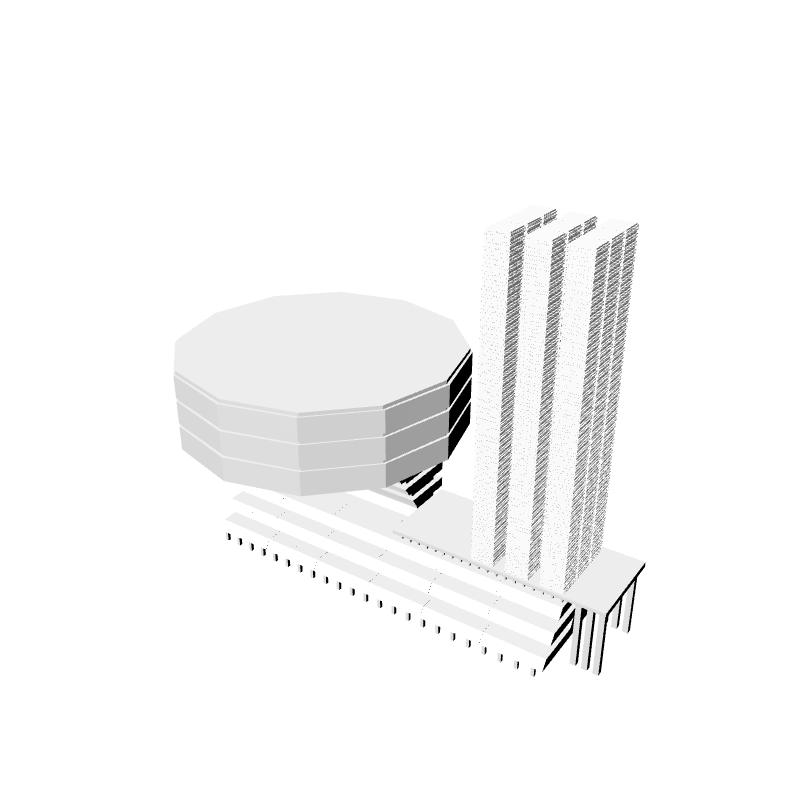
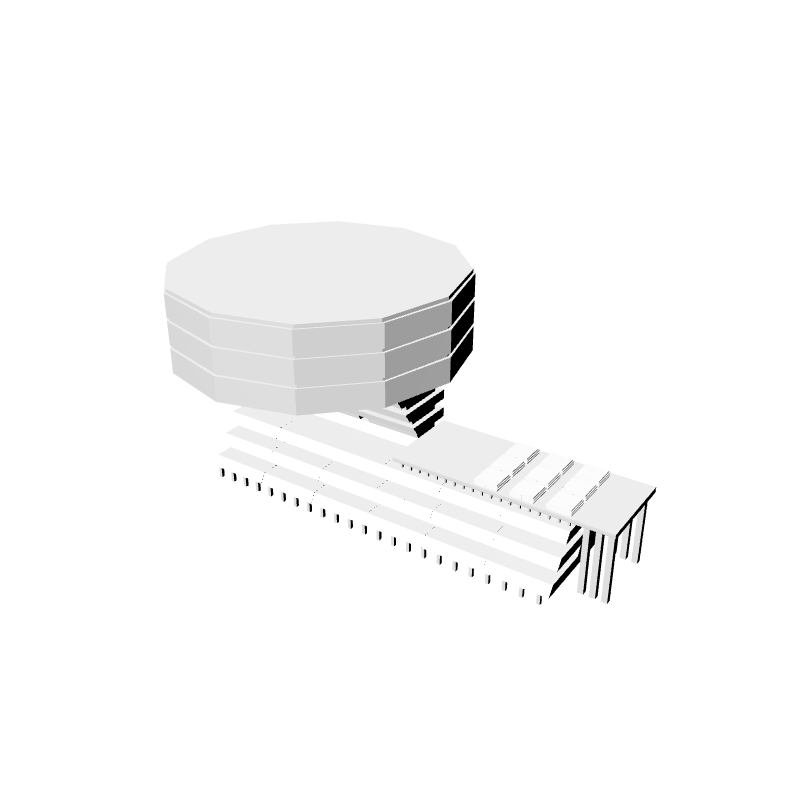
home: titulo segun modelo (Brutalist_building), sin torus de reserva al cargar

diff --git a/src/components/HomeHero3D.tsx b/src/components/HomeHero3D.tsx
@@ -1,8 +1,9 @@
 "use client";
 
 import dynamic from "next/dynamic";
-import { useRef, useState } from "react";
+import { useRef, useSyncExternalStore } from "react";
 import { useRouter } from "next/navigation";
+import { obraPorSlug } from "@/content/obras";
 import type { Locale } from "@/content/tipos";
 
 const Viewer3D = dynamic(() => import("./Viewer3D"), { ssr: false });
@@ -12,46 +13,48 @@ const MODELOS: Array<{ slug: string; modelo: string; formato: "obj" | "glb"; dis
   { slug: "buildings-brutalist-1", modelo: "/models/Buildings_Brutalist_1.glb", formato: "glb", distancia: 4 }
 ];
 
-export default function HomeHero3D({
-  locale,
-  titulo
-}: {
-  locale: Locale;
-  titulo: string;
-}) {
+let eleccion: number | null = null;
+const elegirAlAzar = () => (eleccion ??= Math.floor(Math.random() * MODELOS.length));
+const sinSuscripcion = () => () => {};
+
+export default function HomeHero3D({ locale }: { locale: Locale }) {
   const router = useRouter();
   const origen = useRef<{ x: number; y: number } | null>(null);
-  const [opcion] = useState(() => Math.floor(Math.random() * MODELOS.length));
+  const opcion = useSyncExternalStore(sinSuscripcion, elegirAlAzar, () => 0);
   const destino = `/${locale}/obra/${MODELOS[opcion].slug}`;
+  const titulo = obraPorSlug(MODELOS[opcion].slug)?.titulo[locale] ?? "";
   return (
-    <div
-      className="heroe-3d"
-      role="link"
-      tabIndex={0}
-      aria-label={titulo}
-      onPointerDown={(e) => {
-        origen.current = { x: e.clientX, y: e.clientY };
-      }}
-      onClick={(e) => {
-        const o = origen.current;
-        origen.current = null;
-        if (!o) {
-          return;
-        }
-        const dx = e.clientX - o.x;
-        const dy = e.clientY - o.y;
-        if (dx * dx + dy * dy < 25) {
-          router.push(destino);
-        }
-      }}
-      onKeyDown={(e) => {
-        if (e.key === "Enter" || e.key === " ") {
-          e.preventDefault();
-          router.push(destino);
-        }
-      }}
-    >
-      <Viewer3D modelo={MODELOS[opcion].modelo} formato={MODELOS[opcion].formato} titulo={titulo} distancia={MODELOS[opcion].distancia} velocidad={0.003} phiInicial={0.9} zoomAuto={0.4} focoSuperior glitchZoom />
-    </div>
+    <>
+      <div
+        className="heroe-3d"
+        role="link"
+        tabIndex={0}
+        aria-label={titulo}
+        onPointerDown={(e) => {
+          origen.current = { x: e.clientX, y: e.clientY };
+        }}
+        onClick={(e) => {
+          const o = origen.current;
+          origen.current = null;
+          if (!o) {
+            return;
+          }
+          const dx = e.clientX - o.x;
+          const dy = e.clientY - o.y;
+          if (dx * dx + dy * dy < 25) {
+            router.push(destino);
+          }
+        }}
+        onKeyDown={(e) => {
+          if (e.key === "Enter" || e.key === " ") {
+            e.preventDefault();
+            router.push(destino);
+          }
+        }}
+      >
+        <Viewer3D modelo={MODELOS[opcion].modelo} formato={MODELOS[opcion].formato} titulo={titulo} distancia={MODELOS[opcion].distancia} velocidad={0.003} phiInicial={0.9} zoomAuto={0.4} focoSuperior reservaProcedural={false} glitchZoom />
+      </div>
+      <h1 className="home-titulo glitch" data-text={titulo}>{titulo}</h1>
+    </>
   );
 }

diff --git a/src/app/[locale]/page.tsx b/src/app/[locale]/page.tsx
@@ -1,21 +1,18 @@
 import { setRequestLocale } from "next-intl/server";
 import HomeHero3D from "@/components/HomeHero3D";
 import Spotlights from "@/components/Spotlights";
-import { obraDestacada } from "@/content/obras";
 import Pie from "@/components/Pie";
 import type { Locale } from "@/content/tipos";
 
 export default async function Home({ params }: { params: Promise<{ locale: string }> }) {
   const { locale } = await params;
   setRequestLocale(locale);
-  const obra = obraDestacada();
   const l = locale as Locale;
   return (
     <div className="home-viewport">
       <section className="home-oscura">
       <Spotlights />
-      <HomeHero3D locale={l} titulo={obra.titulo[l]} />
-      <h1 className="home-titulo glitch" data-text={obra.titulo[l]}>{obra.titulo[l]}</h1>
+      <HomeHero3D locale={l} />
       </section>
       <Pie />
     </div>

diff --git a/src/content/obras.ts b/src/content/obras.ts
@@ -506,7 +506,7 @@ export const OBRAS_3D: Obra3D[] = [
     periodo: "2026",
     anio: 2026,
     tipo: "3d",
-    titulo: { es: "Buildings_Brutalist_1", en: "Buildings_Brutalist_1" },
+    titulo: { es: "Brutalist_building", en: "Brutalist_building" },
     tecnica: { es: "Técnica", en: "Technique" },
     materiales: { es: "Materiales", en: "Materials" },
     dimensiones: { es: "Medidas", en: "Dimensions" },

diff --git a/AGENTS.md b/AGENTS.md
@@ -43,7 +43,7 @@ Estado: sitio en construcción. Las obras son `test_N`, las fichas muestran el t
 - Tema claro por defecto y oscuro con `data-tema` en `<html>`; la elección se guarda en `vitrina-tema-v2` (cambiar la clave fuerza el claro de nuevo). El botón muestra luna en claro y sol en oscuro. El script inline del layout aplica el tema antes de pintar.
 - Rueda del mouse: en la home el 3D hace zoom con la rueda; en las fichas solo con Ctrl, para que la página baje con la rueda. Si el WebGL falla, el visor no tumba la app (se queda vacío).
 - Los visores 3D leen el tema, usan canvas transparente y ajustan luces (verde/violeta más profundos en claro). El retrato `head_1.glb` del hover del nombre arranca en la oreja izquierda, aparece solo con hover en el nombre, sin fondo ni marco, y gira en su eje (giro automático `velocidad={0.032}`) hasta que el puntero sale del nombre; sin seguimiento del mouse (pendiente de retomar), con luz frontal y sin figura procedural mientras carga (`reservaProcedural={false}`).
-- Home: rota al azar en cada carga entre los modelos de `MODELOS` (`HomeHero3D.tsx`): `Flower_scene.glb` (flores, distancia 3.5, destacada) y `Buildings_Brutalist_1.glb` (compañero, distancia 4). Cada objeto nuevo del home debe agregarse también a `OBRAS_3D` (título = nombre del archivo, sin destacada) y tener su miniatura `public/thumbs/<slug>.png`, renderizada del modelo con fondo transparente. Los visores de ficha de pintura usan la distancia por defecto (4.2); las fichas 3D usan 3.8 para verse más grandes.
+- Home: rota al azar en cada carga entre los modelos de `MODELOS` (`HomeHero3D.tsx`): `Flower_scene.glb` (flores, distancia 3.5, destacada) y `Buildings_Brutalist_1.glb` (compañero, distancia 4). El título del home cambia según el modelo que sale (el `h1` vive en `HomeHero3D`, elegido al azar sin afectar el HTML del servidor). Cada objeto nuevo del home debe agregarse también a `OBRAS_3D` (título = nombre que pida el dueño, sin destacada) y tener su miniatura `public/thumbs/<slug>.png`, renderizada del modelo con fondo transparente. Los visores de ficha de pintura usan la distancia por defecto (4.2); las fichas 3D usan 3.8 para verse más grandes.
 
 ## Secciones y contenido
 
